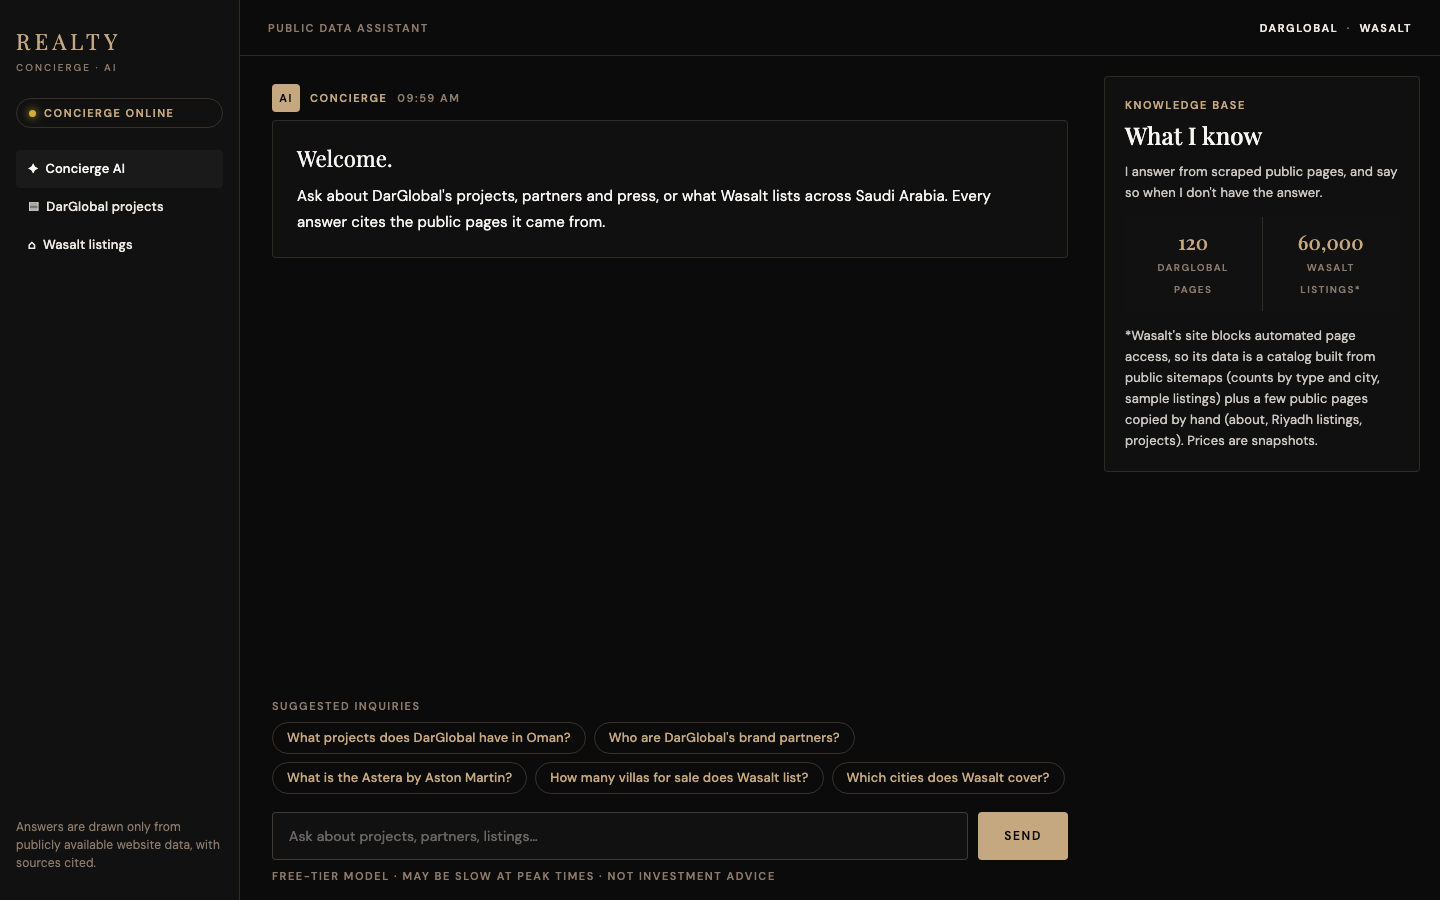
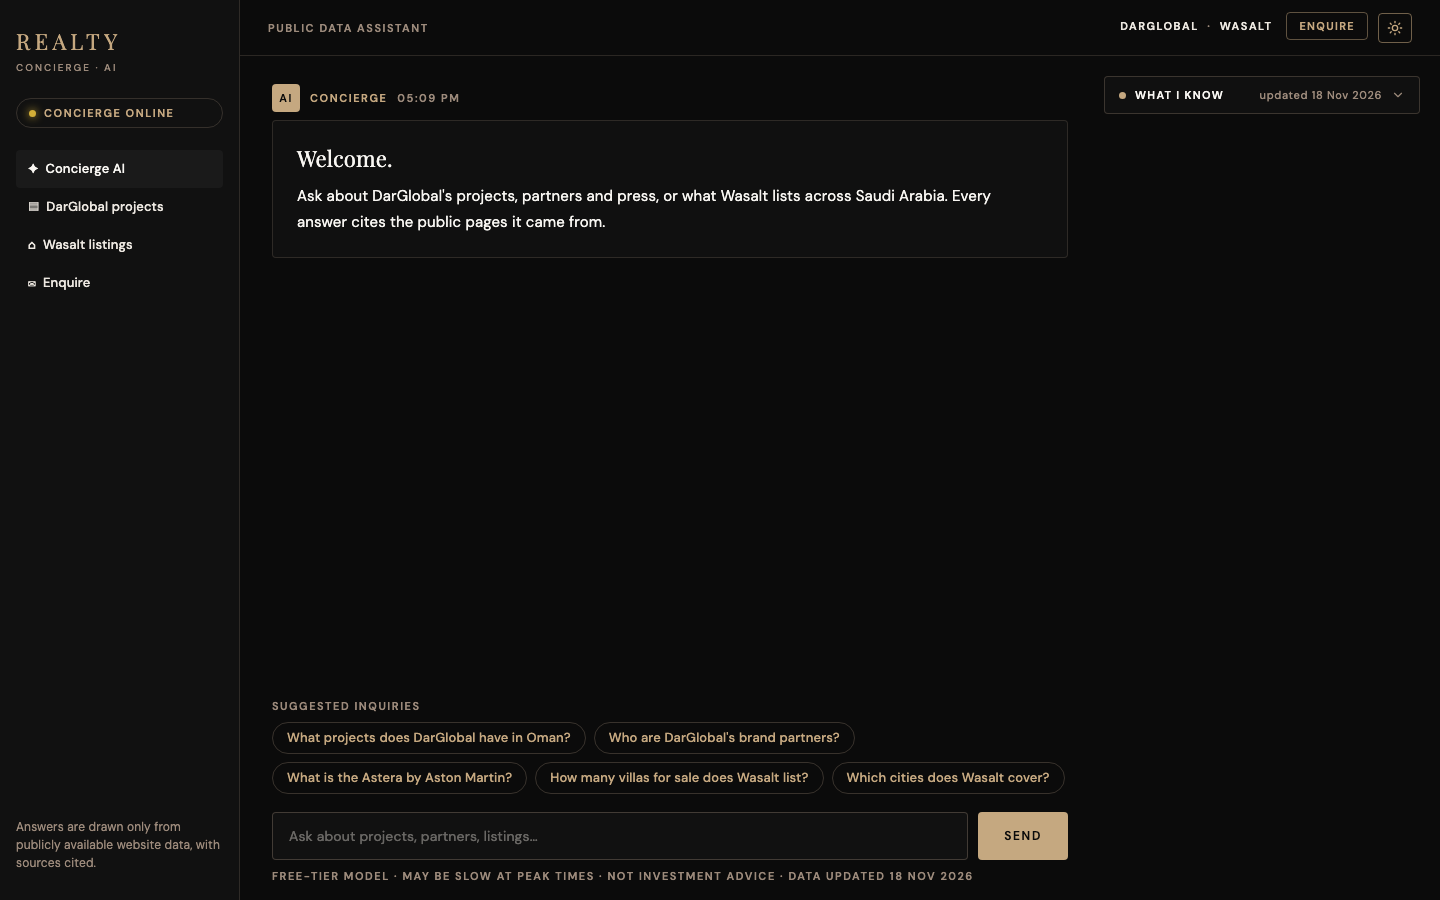
Collapse the 'What I know' card to a tab that opens on hover, focus or click

diff --git a/app/static/index.html b/app/static/index.html
@@ -146,6 +146,25 @@ input::placeholder{color:var(--placeholder)}
 .foot{max-width:880px;width:100%;margin:0 auto;padding:0 32px 16px;color:var(--bronze);font-size:11px}
 
 /* right panel */
+.kb{position:relative;margin-bottom:16px}
+.kb-chip{all:unset;box-sizing:border-box;cursor:pointer;display:flex;align-items:center;gap:9px;width:100%;padding:10px 14px;border:1px solid rgba(140,122,107,.35);border-radius:4px;background:var(--panel);color:var(--stone);font:600 11px/16px var(--sans);letter-spacing:.12em;text-transform:uppercase;transition:border-color .15s}
+.kb-chip:hover,.kb.open .kb-chip,.kb:focus-within .kb-chip{border-color:rgba(197,168,128,.7)}
+.kb-chip:focus-visible{outline:2px solid var(--champagne);outline-offset:2px}
+.kb-dot{flex:none;width:7px;height:7px;border-radius:50%;background:var(--champagne)}
+.kb.stale .kb-dot{background:var(--gold);box-shadow:0 0 8px var(--gold)}
+.kb-title{color:var(--alabaster)}
+.kb-date{margin-left:auto;color:var(--bronze);font-weight:500;letter-spacing:.06em;text-transform:none;white-space:nowrap}
+.kb.stale .kb-date{color:var(--gold);font-weight:600}
+.kb-chip svg{flex:none;width:14px;height:14px;fill:none;stroke:var(--bronze);stroke-width:2;stroke-linecap:round;stroke-linejoin:round;transition:transform .2s}
+.kb:hover .kb-chip svg,.kb:focus-within .kb-chip svg,.kb.open .kb-chip svg{transform:rotate(180deg)}
+/* the full card is a popover: it overlays the page (no layout shift) and appears on hover, keyboard focus, or tap/click */
+.kb-card{position:absolute;top:calc(100% + 8px);left:0;right:0;z-index:30;margin:0;box-shadow:0 18px 40px -12px rgba(0,0,0,.55);
+  opacity:0;visibility:hidden;transform:translateY(-6px);transition:opacity .18s,transform .18s,visibility 0s linear .22s}
+.kb-card::before{content:"";position:absolute;left:0;right:0;top:-10px;height:10px}   /* hover bridge across the gap */
+.kb:hover .kb-card,.kb:focus-within .kb-card,.kb.open .kb-card{opacity:1;visibility:visible;transform:none;transition:opacity .18s,transform .18s,visibility 0s}
+/* solid, not the translucent .card background: the popover sits on top of other content */
+.kb .kb-card{background:var(--obsidian);border-color:rgba(197,168,128,.45)}
+@media(prefers-reduced-motion:reduce){.kb-card,.kb-chip svg{transition:none}}
 .panel{padding:20px 20px 20px 4px;overflow:auto;min-height:0}
 .card{background:var(--panel);border:1px solid rgba(140,122,107,.25);border-radius:4px;padding:20px;margin-bottom:16px}
 .card h2{font:500 24px/32px var(--serif);color:var(--alabaster);margin:6px 0 10px}
@@ -193,7 +212,12 @@ input::placeholder{color:var(--placeholder)}
 </main>
 
 <section class="panel">
-  <div class="card">
+  <div class="kb" id="kb">
+   <button class="kb-chip" id="kb-chip" type="button" aria-expanded="false" aria-controls="kb-card">
+     <i class="kb-dot"></i><span class="kb-title">What I know</span><span class="kb-date" id="kb-date"></span>
+     <svg viewBox="0 0 24 24" aria-hidden="true"><path d="M6 9l6 6 6-6"/></svg>
+   </button>
+   <div class="card kb-card" id="kb-card" role="region" aria-label="Knowledge base">
     <div class="caps" style="color:var(--champagne)">Knowledge base</div>
     <h2>What I know</h2>
     <p>I answer from scraped public pages, and say so when I don't have the answer.</p>
@@ -203,6 +227,7 @@ input::placeholder{color:var(--placeholder)}
     </div>
     <div class="fresh" id="fresh" hidden><i></i><span id="fresh-text"></span></div>
     <p class="note">*Wasalt's site blocks automated page access, so its data is a catalog built from public sitemaps (counts by type and city, sample listings) plus a few public pages copied by hand (about, Riyadh listings, projects). Prices are snapshots.</p>
+   </div>
   </div>
   <div class="card" id="srcs" hidden>
     <div class="caps" style="color:var(--champagne)">References</div>
@@ -429,6 +454,8 @@ f.onsubmit=async e=>{
     if(m.dar_pages)document.getElementById('n-dar').textContent=m.dar_pages.toLocaleString('en-US');
     if(m.wasalt_listings)document.getElementById('n-was').textContent=m.wasalt_listings.toLocaleString('en-US');
     const f=document.getElementById('fresh');f.hidden=false;f.classList.toggle('stale',!!m.stale);
+    const kb=document.getElementById('kb');kb.classList.toggle('stale',!!m.stale);
+    document.getElementById('kb-date').textContent=m.stale?`may be out of date · ${fmt(m.scraped_at)}`:`updated ${fmt(m.scraped_at)}`;
     const kept=m.carried_over?` · ${m.carried_over} page${m.carried_over>1?'s':''} kept from an earlier crawl`:'';
     const txt=(m.stale?`Data may be out of date · last updated ${fmt(m.scraped_at)} (${m.age_days} days ago)`:`Data last updated ${fmt(m.scraped_at)}`)+kept;
     document.getElementById('fresh-text').textContent=txt;
@@ -451,5 +478,14 @@ try{matchMedia('(prefers-color-scheme: light)').addEventListener('change',e=>{
   let saved=null;try{saved=localStorage.getItem('theme')}catch(_){}
   if(!saved)applyTheme(e.matches?'light':'dark',false);
 })}catch(e){}
+
+/* ---- "What I know" card: collapsed to a tab; hover or keyboard focus opens it, a click/tap pins it open (touch has no hover) ---- */
+(()=>{
+  const kb=document.getElementById('kb'),chip=document.getElementById('kb-chip');
+  const set=open=>{kb.classList.toggle('open',open);chip.setAttribute('aria-expanded',String(open))};
+  chip.addEventListener('click',()=>{const open=!kb.classList.contains('open');set(open);if(!open)chip.blur()});   // blur: :focus-within would keep it open
+  document.addEventListener('keydown',e=>{if(e.key==='Escape'&&kb.classList.contains('open')){set(false);chip.blur()}});
+  document.addEventListener('click',e=>{if(!kb.contains(e.target)&&kb.classList.contains('open'))set(false)});
+})();
 welcome();
 </script></body></html>

diff --git a/tests/test_ui_theme.py b/tests/test_ui_theme.py
@@ -154,6 +154,8 @@ def main():
                     ask("MODEALL projects in Oman")                                         # outage notice + passages
                     pg.click(".enq-btn")                                                    # the Enquire form message
                     pg.evaluate("document.querySelector('#fresh') && (document.querySelector('#fresh').hidden = false)")
+                    if pg.locator('.kb-chip').is_visible():   # the side panel only exists on wide screens
+                        pg.hover('.kb-chip'); pg.wait_for_timeout(400)   # open the knowledge-base card so its text is scanned too
                     res = pg.evaluate(SCAN)
                     low = [x for x in res["fails"]]
                     check(f"{name} / {label}: all {res['checked']} visible text elements meet WCAG AA contrast", not low,
@@ -186,6 +188,55 @@ def main():
             pg.wait_for_timeout(2200)
             check("the icon goes back to normal after a moment", "copied" not in (btn.get_attribute("class") or "")
                   and btn.get_attribute("aria-label") == "Copy answer")
+            ctx.close()
+
+            # ---------------------------------------------------------------- the "What I know" tab: collapsed, opens on hover / focus / click
+            ctx = b.new_context(viewport={"width": 1280, "height": 900})
+            pg = ctx.new_page(); pg.goto(APP + "/"); pg.wait_for_selector("#chips span"); pg.wait_for_timeout(500)
+            chip, card = pg.locator("#kb-chip"), pg.locator("#kb-card")
+            away = lambda: (pg.mouse.move(600, 500), pg.wait_for_timeout(500))
+            check("collapsed by default: a tab with the data date is visible, the card is not",
+                  chip.is_visible() and not card.is_visible() and "updated" in chip.inner_text().lower(), chip.inner_text())
+            chip.hover(); pg.wait_for_timeout(350)
+            check("hovering the tab opens the card (counts and the Wasalt caveat)", card.is_visible() and "60,000" in card.inner_text()
+                  and "blocks automated" in card.inner_text())
+            pg.mouse.move(chip.bounding_box()["x"] + 40, chip.bounding_box()["y"] + chip.bounding_box()["height"] + 5)  # across the gap
+            pg.wait_for_timeout(120)
+            check("moving the pointer from the tab down into the card does not close it (no flicker)", card.is_visible())
+            away()
+            check("moving the pointer away closes it", not card.is_visible())
+            chip.focus(); pg.wait_for_timeout(350)
+            check("keyboard focus on the tab opens it too", card.is_visible())
+            pg.evaluate("document.activeElement.blur()"); pg.wait_for_timeout(450)
+            check("...and leaving it closes it", not card.is_visible())
+            chip.click(); away()
+            check("a click pins it open (this is how touch screens, which have no hover, use it)", card.is_visible()
+                  and chip.get_attribute("aria-expanded") == "true")
+            chip.click(); away()
+            check("a second click unpins it", not card.is_visible() and chip.get_attribute("aria-expanded") == "false")
+            chip.click(); away(); pg.keyboard.press("Escape"); pg.wait_for_timeout(450)
+            check("Escape closes a pinned card", not card.is_visible() and chip.get_attribute("aria-expanded") == "false")
+            chip.click(); away(); pg.mouse.click(600, 400); pg.wait_for_timeout(450)
+            check("clicking elsewhere closes a pinned card", not card.is_visible())
+            pg.fill("#q", "What projects does DarGlobal have in Oman?"); pg.press("#q", "Enter")
+            pg.wait_for_function("document.querySelector('#go').disabled === false", timeout=30000); pg.wait_for_timeout(300)
+            top_before = pg.locator("#srcs").bounding_box()["y"]
+            chip.hover(); pg.wait_for_timeout(350)
+            top_open = pg.locator("#srcs").bounding_box()["y"]
+            box, vp = card.bounding_box(), pg.viewport_size
+            check("opening the card overlays the page: the sources box below does not move", top_before == top_open, (top_before, top_open))
+            bg = pg.evaluate("getComputedStyle(document.querySelector('#kb-card')).backgroundColor")
+            check("the open card is opaque, so the sources box behind it does not show through", bg.startswith("rgb(") or bg.endswith(", 1)"), bg)
+            check("  ...and the card stays inside the window", box["x"] >= 0 and box["x"] + box["width"] <= vp["width"]
+                  and box["y"] + box["height"] <= vp["height"], box)
+            ctx.close()
+            ctx = b.new_context(viewport={"width": 1280, "height": 900})
+            pg = ctx.new_page()
+            pg.route("**/api/meta", lambda r: r.fulfill(json={"scraped_at": "2026-09-01", "changed_at": "2026-09-01", "dar_pages": 118,
+                                                              "wasalt_listings": 59000, "age_days": 79, "stale": True}))
+            pg.goto(APP + "/"); pg.wait_for_selector("#chips span"); pg.wait_for_timeout(500)
+            check("stale data is flagged on the collapsed tab itself (amber, 'may be out of date')",
+                  "may be out of date" in pg.inner_text("#kb-chip").lower() and "stale" in (pg.get_attribute("#kb", "class") or ""))
             ctx.close()
 
             # ---------------------------------------------------------------- the admin page follows the same saved theme

diff --git a/README.md b/README.md
@@ -23,7 +23,8 @@ only the wait before the first word is sped up, and the video says so on screen 
 clicks run at real speed. The enquiry form is filled with obviously fake data.
 
 The UI has a **dark and a light theme**: it follows your system setting, the header button switches, and the choice is
-remembered.
+remembered. The "What I know" panel is a small tab (it shows when the data was last updated, in amber if it is
+out of date) that opens on hover, keyboard focus or a click or tap.
 
 | Dark | Light |
 |---|---|
